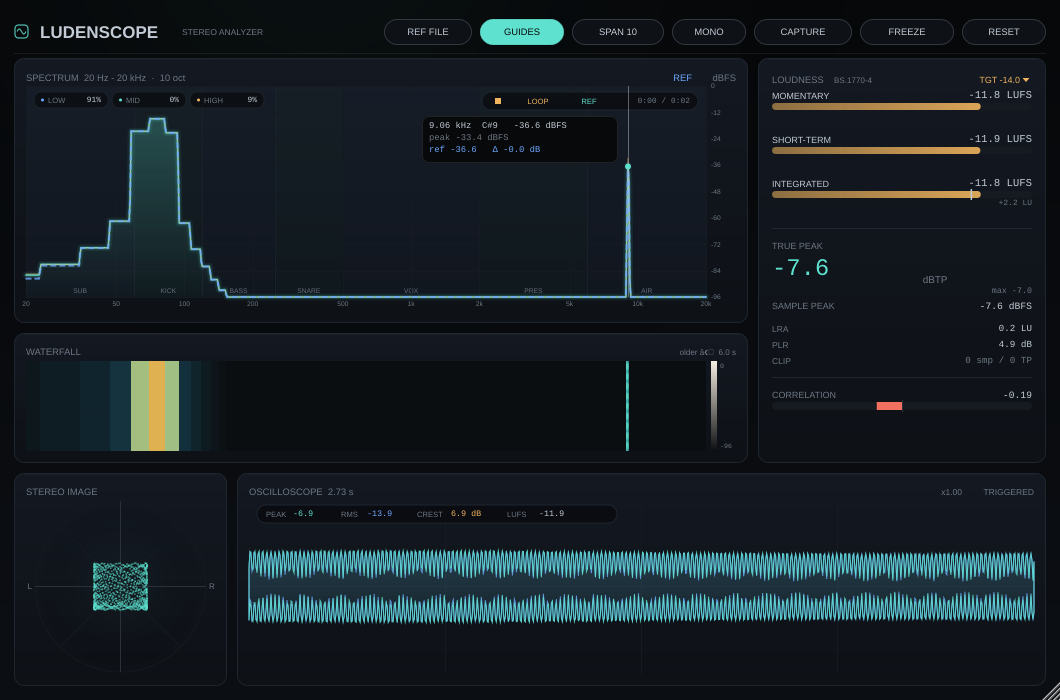
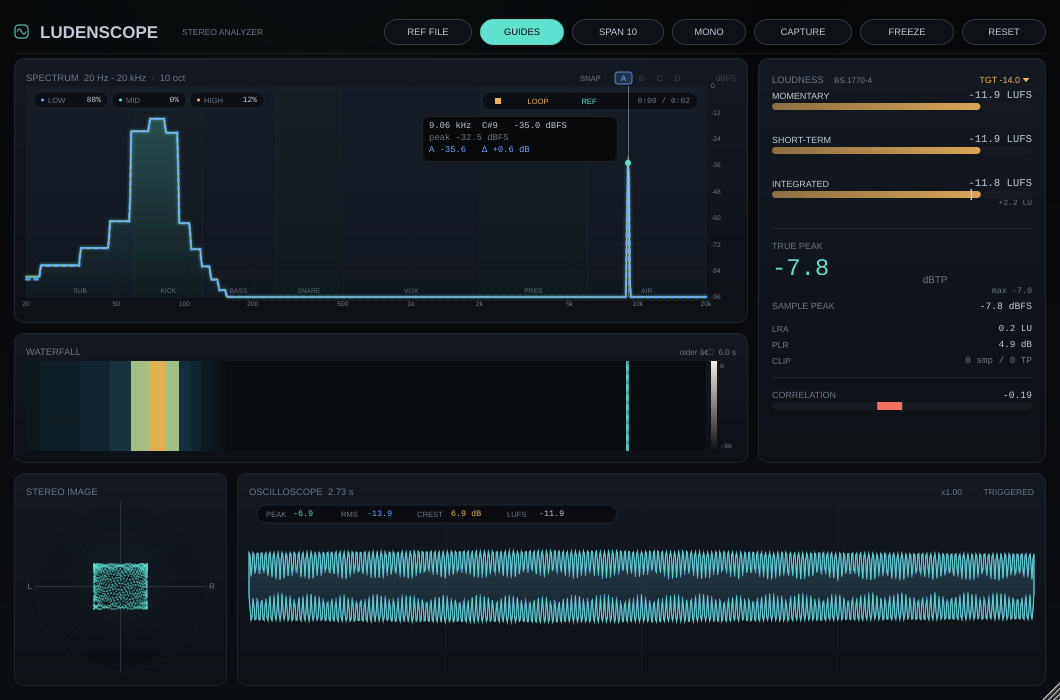
spectrum: four snapshot slots A-D
- CAPTURE now writes the averaged spectrum into the selected slot instead of
  overwriting a single reference; the letters A-D sit in the spectrum title
  and clicking one selects the slot
- every filled slot is drawn as a coloured dashed curve (selected on top),
  and the inspector adds a line with that slot's level and the delta to it
- the REF FILE curve moved to a neutral grey so it stays distinct from the
  snapshots; RESET clears both the slots and the loaded reference

diff --git a/Source/ui/SpectrumView.h b/Source/ui/SpectrumView.h
@@ -15,6 +15,7 @@ public:
     SpectrumView() = default;
 
     static constexpr int numBins = 512;
+    static constexpr int snapshotCount = 4;
     static constexpr float minFrequency = 20.0f;
     static constexpr float maxFrequency = 20000.0f;
 
@@ -46,6 +47,16 @@ public:
         repaint();
     }
 
+    void setSnapshots (const std::array<std::array<float, numBins>, snapshotCount>& data,
+                       const std::array<bool, snapshotCount>& present,
+                       int selected) noexcept
+    {
+        snapshots = data;
+        snapshotPresent = present;
+        selectedSnapshot = juce::jlimit (0, snapshotCount - 1, selected);
+        repaint();
+    }
+
     void setTransport (bool enabled, bool playing, bool looping, bool audible,
                        double positionSeconds, double lengthSeconds) noexcept
     {
@@ -60,6 +71,7 @@ public:
     std::function<void()> onPlayToggle;
     std::function<void()> onLoopToggle;
     std::function<void()> onAbToggle;
+    std::function<void (int)> onSnapshotSelect;
 
     // Emitted when the user zooms with the wheel; the editor applies the range
     // to the waterfall as well so both views stay aligned.
@@ -122,6 +134,17 @@ public:
 
     void mouseDown (const juce::MouseEvent& e) override
     {
+        for (int i = 0; i < snapshotCount; ++i)
+        {
+            if (snapshotLetterAreas[(size_t) i].contains (e.position))
+            {
+                if (onSnapshotSelect)
+                    onSnapshotSelect (i);
+
+                return;
+            }
+        }
+
         if (! transportEnabled)
             return;
 
@@ -154,6 +177,35 @@ public:
         g.setFont (theme::labelFont (10.5f));
         g.setColour (theme::textDim);
         g.drawText ("SPECTRUM  " + rangeText(), titleRow, juce::Justification::centredLeft);
+
+        // Snapshot slots A-D.
+        const juce::Rectangle<float> snapArea (titleRow.getRight() - 44.0f - 112.0f,
+                                               titleRow.getY(), 108.0f, titleRow.getHeight());
+        g.setFont (theme::labelFont (8.5f));
+        g.setColour (theme::textDim);
+        g.drawText ("SNAP", snapArea.withWidth (32.0f), juce::Justification::centredLeft);
+
+        for (int i = 0; i < snapshotCount; ++i)
+        {
+            const juce::Rectangle<float> letter (snapArea.getX() + 36.0f + (float) i * 18.0f,
+                                                 titleRow.getY() + 2.0f, 15.0f,
+                                                 titleRow.getHeight() - 4.0f);
+            snapshotLetterAreas[(size_t) i] = letter;
+
+            if (i == selectedSnapshot)
+            {
+                g.setColour (snapshotColour (i).withAlpha (0.18f));
+                g.fillRoundedRectangle (letter.expanded (1.0f, 0.0f), 3.0f);
+                g.setColour (snapshotColour (i).withAlpha (0.75f));
+                g.drawRoundedRectangle (letter.expanded (1.0f, 0.0f), 3.0f, 1.0f);
+            }
+
+            g.setFont (theme::labelFont (9.0f));
+            g.setColour (snapshotPresent[(size_t) i] ? snapshotColour (i)
+                                                     : theme::textDim.withAlpha (0.45f));
+            g.drawText (juce::String::charToString ((juce::juce_wchar) ('A' + i)),
+                        letter, juce::Justification::centred);
+        }
 
         if (hasReference)
         {
@@ -335,8 +387,41 @@ public:
             juce::Path dashed;
             juce::PathStrokeType (1.0f).createDashedStroke (dashed, referencePath, dashes, 2);
 
-            g.setColour (theme::cold.withAlpha (0.8f));
+            g.setColour (theme::text.withAlpha (0.65f));
             g.strokePath (dashed, juce::PathStrokeType (1.0f));
+        }
+
+        for (int pass = 0; pass < 2; ++pass)
+        {
+            for (int slot = 0; slot < snapshotCount; ++slot)
+            {
+                if (! snapshotPresent[(size_t) slot])
+                    continue;
+
+                const bool selected = slot == selectedSnapshot;
+
+                if ((pass == 0) == selected)
+                    continue;
+
+                juce::Path path;
+
+                for (int s = 0; s < steps; ++s)
+                {
+                    const float fraction = (float) s / (float) (steps - 1);
+                    const float x = xFor (fraction);
+                    const float y = yFor (levelAt (snapshots[(size_t) slot], fraction));
+
+                    if (s == 0) path.startNewSubPath (x, y);
+                    else        path.lineTo (x, y);
+                }
+
+                const float dashes[] = { 4.0f, 4.0f };
+                juce::Path dashed;
+                juce::PathStrokeType (1.0f).createDashedStroke (dashed, path, dashes, 2);
+
+                g.setColour (snapshotColour (slot).withAlpha (selected ? 0.95f : 0.45f));
+                g.strokePath (dashed, juce::PathStrokeType (selected ? 1.3f : 0.9f));
+            }
         }
 
         // Signature HUD: rough low / mid / high energy balance.
@@ -449,6 +534,11 @@ public:
             const float peakLevelDb = levelAt (peaks, fraction);
             const float referenceLevelDb = levelAt (reference, fraction);
 
+            const bool hasSelectedSnapshot = snapshotPresent[(size_t) selectedSnapshot];
+            const float snapshotLevelDb = hasSelectedSnapshot
+                ? levelAt (snapshots[(size_t) selectedSnapshot], fraction)
+                : 0.0f;
+
             const float x = xFor (fraction);
             const float y = yFor (levelDb);
 
@@ -473,8 +563,17 @@ public:
                                        + "   \xce\x94 " + (difference >= 0.0f ? "+" : "")
                                        + juce::String (difference, 1) + " dB";
 
+            const float snapshotDifference = levelDb - snapshotLevelDb;
+            const juce::String snapshotLine =
+                juce::String::charToString ((juce::juce_wchar) ('A' + selectedSnapshot))
+                + " " + juce::String (snapshotLevelDb, 1)
+                + "   \xce\x94 " + (snapshotDifference >= 0.0f ? "+" : "")
+                + juce::String (snapshotDifference, 1) + " dB";
+
             constexpr float boxWidth = 196.0f;
-            const float boxHeight = hasReference ? 47.0f : 34.0f;
+            const float boxHeight = 34.0f
+                                    + (hasReference ? 12.0f : 0.0f)
+                                    + (hasSelectedSnapshot ? 12.0f : 0.0f);
 
             const float rawX = x > plot.getCentreX() ? x - boxWidth - 10.0f : x + 10.0f;
             const float boxX = juce::jlimit (plot.getX() + 4.0f,
@@ -497,8 +596,15 @@ public:
 
             if (hasReference)
             {
-                g.setColour (theme::cold);
+                g.setColour (theme::text.withAlpha (0.8f));
                 g.drawText (line3, textArea.removeFromTop (12.0f),
+                            juce::Justification::centredLeft);
+            }
+
+            if (hasSelectedSnapshot)
+            {
+                g.setColour (snapshotColour (selectedSnapshot));
+                g.drawText (snapshotLine, textArea.removeFromTop (12.0f),
                             juce::Justification::centredLeft);
             }
         }
@@ -562,6 +668,17 @@ private:
         return juce::String ((int) std::lround (hz)) + " Hz";
     }
 
+    static juce::Colour snapshotColour (int slot)
+    {
+        switch (slot)
+        {
+            case 0:  return theme::cold;
+            case 1:  return theme::accent2;
+            case 2:  return theme::hot;
+            default: return juce::Colour (0xffb18cff);
+        }
+    }
+
     static juce::String formatTime (double seconds)
     {
         const int total = juce::jmax (0, (int) seconds);
@@ -587,6 +704,11 @@ private:
     std::array<float, numBins> levels {};
     std::array<float, numBins> peaks {};
     std::array<float, numBins> reference {};
+
+    std::array<std::array<float, numBins>, snapshotCount> snapshots {};
+    std::array<bool, snapshotCount> snapshotPresent {};
+    int selectedSnapshot = 0;
+    std::array<juce::Rectangle<float>, snapshotCount> snapshotLetterAreas {};
 
     bool hasReference = false;
     bool cursorActive = false;

diff --git a/Source/PluginEditor.cpp b/Source/PluginEditor.cpp
@@ -157,6 +157,14 @@ LudensScopeEditor::LudensScopeEditor (LudensScopeProcessor& p)
     spectrumView.onLoopToggle = [this] { toggleReferenceLoop(); };
     spectrumView.onAbToggle = [this] { toggleReferenceAb(); };
 
+    spectrumView.setSnapshots (snapshots, snapshotFilled, snapshotSlot);
+
+    spectrumView.onSnapshotSelect = [this] (int slot)
+    {
+        snapshotSlot = juce::jlimit (0, SpectrumView::snapshotCount - 1, slot);
+        spectrumView.setSnapshots (snapshots, snapshotFilled, snapshotSlot);
+    };
+
     readLeft.resize (readChunk);
     readRight.resize (readChunk);
 
@@ -524,9 +532,10 @@ void LudensScopeEditor::setGuidesEnabled (bool enabled)
 
 void LudensScopeEditor::captureReference()
 {
-    referenceDb = analyzer.averageLevels();
-    hasReference = true;
-    spectrumView.setReference (referenceDb.data(), true);
+    snapshots[(size_t) snapshotSlot] = analyzer.averageLevels();
+    snapshotFilled[(size_t) snapshotSlot] = true;
+
+    spectrumView.setSnapshots (snapshots, snapshotFilled, snapshotSlot);
 }
 
 void LudensScopeEditor::resetDisplay()
@@ -542,6 +551,12 @@ void LudensScopeEditor::resetDisplay()
     hasReference = false;
     spectrumView.setReference (nullptr, false);
     spectrogramView.clear();
+
+    for (auto& filled : snapshotFilled)
+        filled = false;
+
+    snapshotSlot = 0;
+    spectrumView.setSnapshots (snapshots, snapshotFilled, snapshotSlot);
 
     processor.clearReferenceAudio();
     spectrumView.setTransport (false, false, true, false, 0.0, 0.0);

diff --git a/Source/PluginEditor.h b/Source/PluginEditor.h
@@ -85,6 +85,10 @@ private:
     std::array<float, SpectrumAnalyzer::numBins> referenceDb {};
     bool hasReference = false;
 
+    std::array<std::array<float, SpectrumAnalyzer::numBins>, SpectrumView::snapshotCount> snapshots {};
+    std::array<bool, SpectrumView::snapshotCount> snapshotFilled {};
+    int snapshotSlot = 0;
+
     juce::Rectangle<int> leftColumnBounds;
     juce::Rectangle<int> waterfallDivider;
     float waterfallRatio = 0.32f;

diff --git a/README.md b/README.md
@@ -77,13 +77,14 @@ cmake --build --preset dev -j$(nproc)
    Shift+колесо — вертикальный масштаб, двойной клик — сброс. В плашке —
    PEAK / RMS / CREST / LUFS по видимому окну. `MONO` — анализ суммы каналов
    для проверки моно-совместимости.
-6. `CAPTURE` — зафиксировать усреднённый спектр как референс (синий пунктир;
-   разница с текущим уровнем видна в инспекторе). `REF FILE` — загрузить
-   wav/aiff/flac и наложить усреднённую кривую файла; анализ идёт в фоне, файлы
-   длиннее 10 минут обрезаются. После загрузки на спектре появляется транспорт:
-   play/stop, `LOOP`, `A/B` (MIX/REF) и время. При переходе в REF громкость
-   референса подгоняется под текущий integrated микса. `FREEZE` — стопор кадров,
-   `RESET` — сброс пиков, громкости, референса и счётчиков.
+6. Снапшоты FFT: клик по букве `A`–`D` в шапке спектра выбирает слот, `CAPTURE`
+   записывает в него усреднённый спектр. Заполненные слоты рисуются цветными
+   пунктирами, инспектор показывает уровень и дельту к выбранному слоту.
+   `REF FILE` — загрузить wav/aiff/flac: его усреднённая кривая рисуется серым,
+   а после загрузки на спектре появляется транспорт (play/stop, `LOOP`, `A/B`,
+   время); громкость референса подгоняется под текущий integrated микса. Файлы
+   длиннее 10 минут обрезаются. `FREEZE` — стопор кадров, `RESET` — сброс
+   пиков, громкости, снапшотов, референса и счётчиков.
 
 ## macOS + Cubase
 
